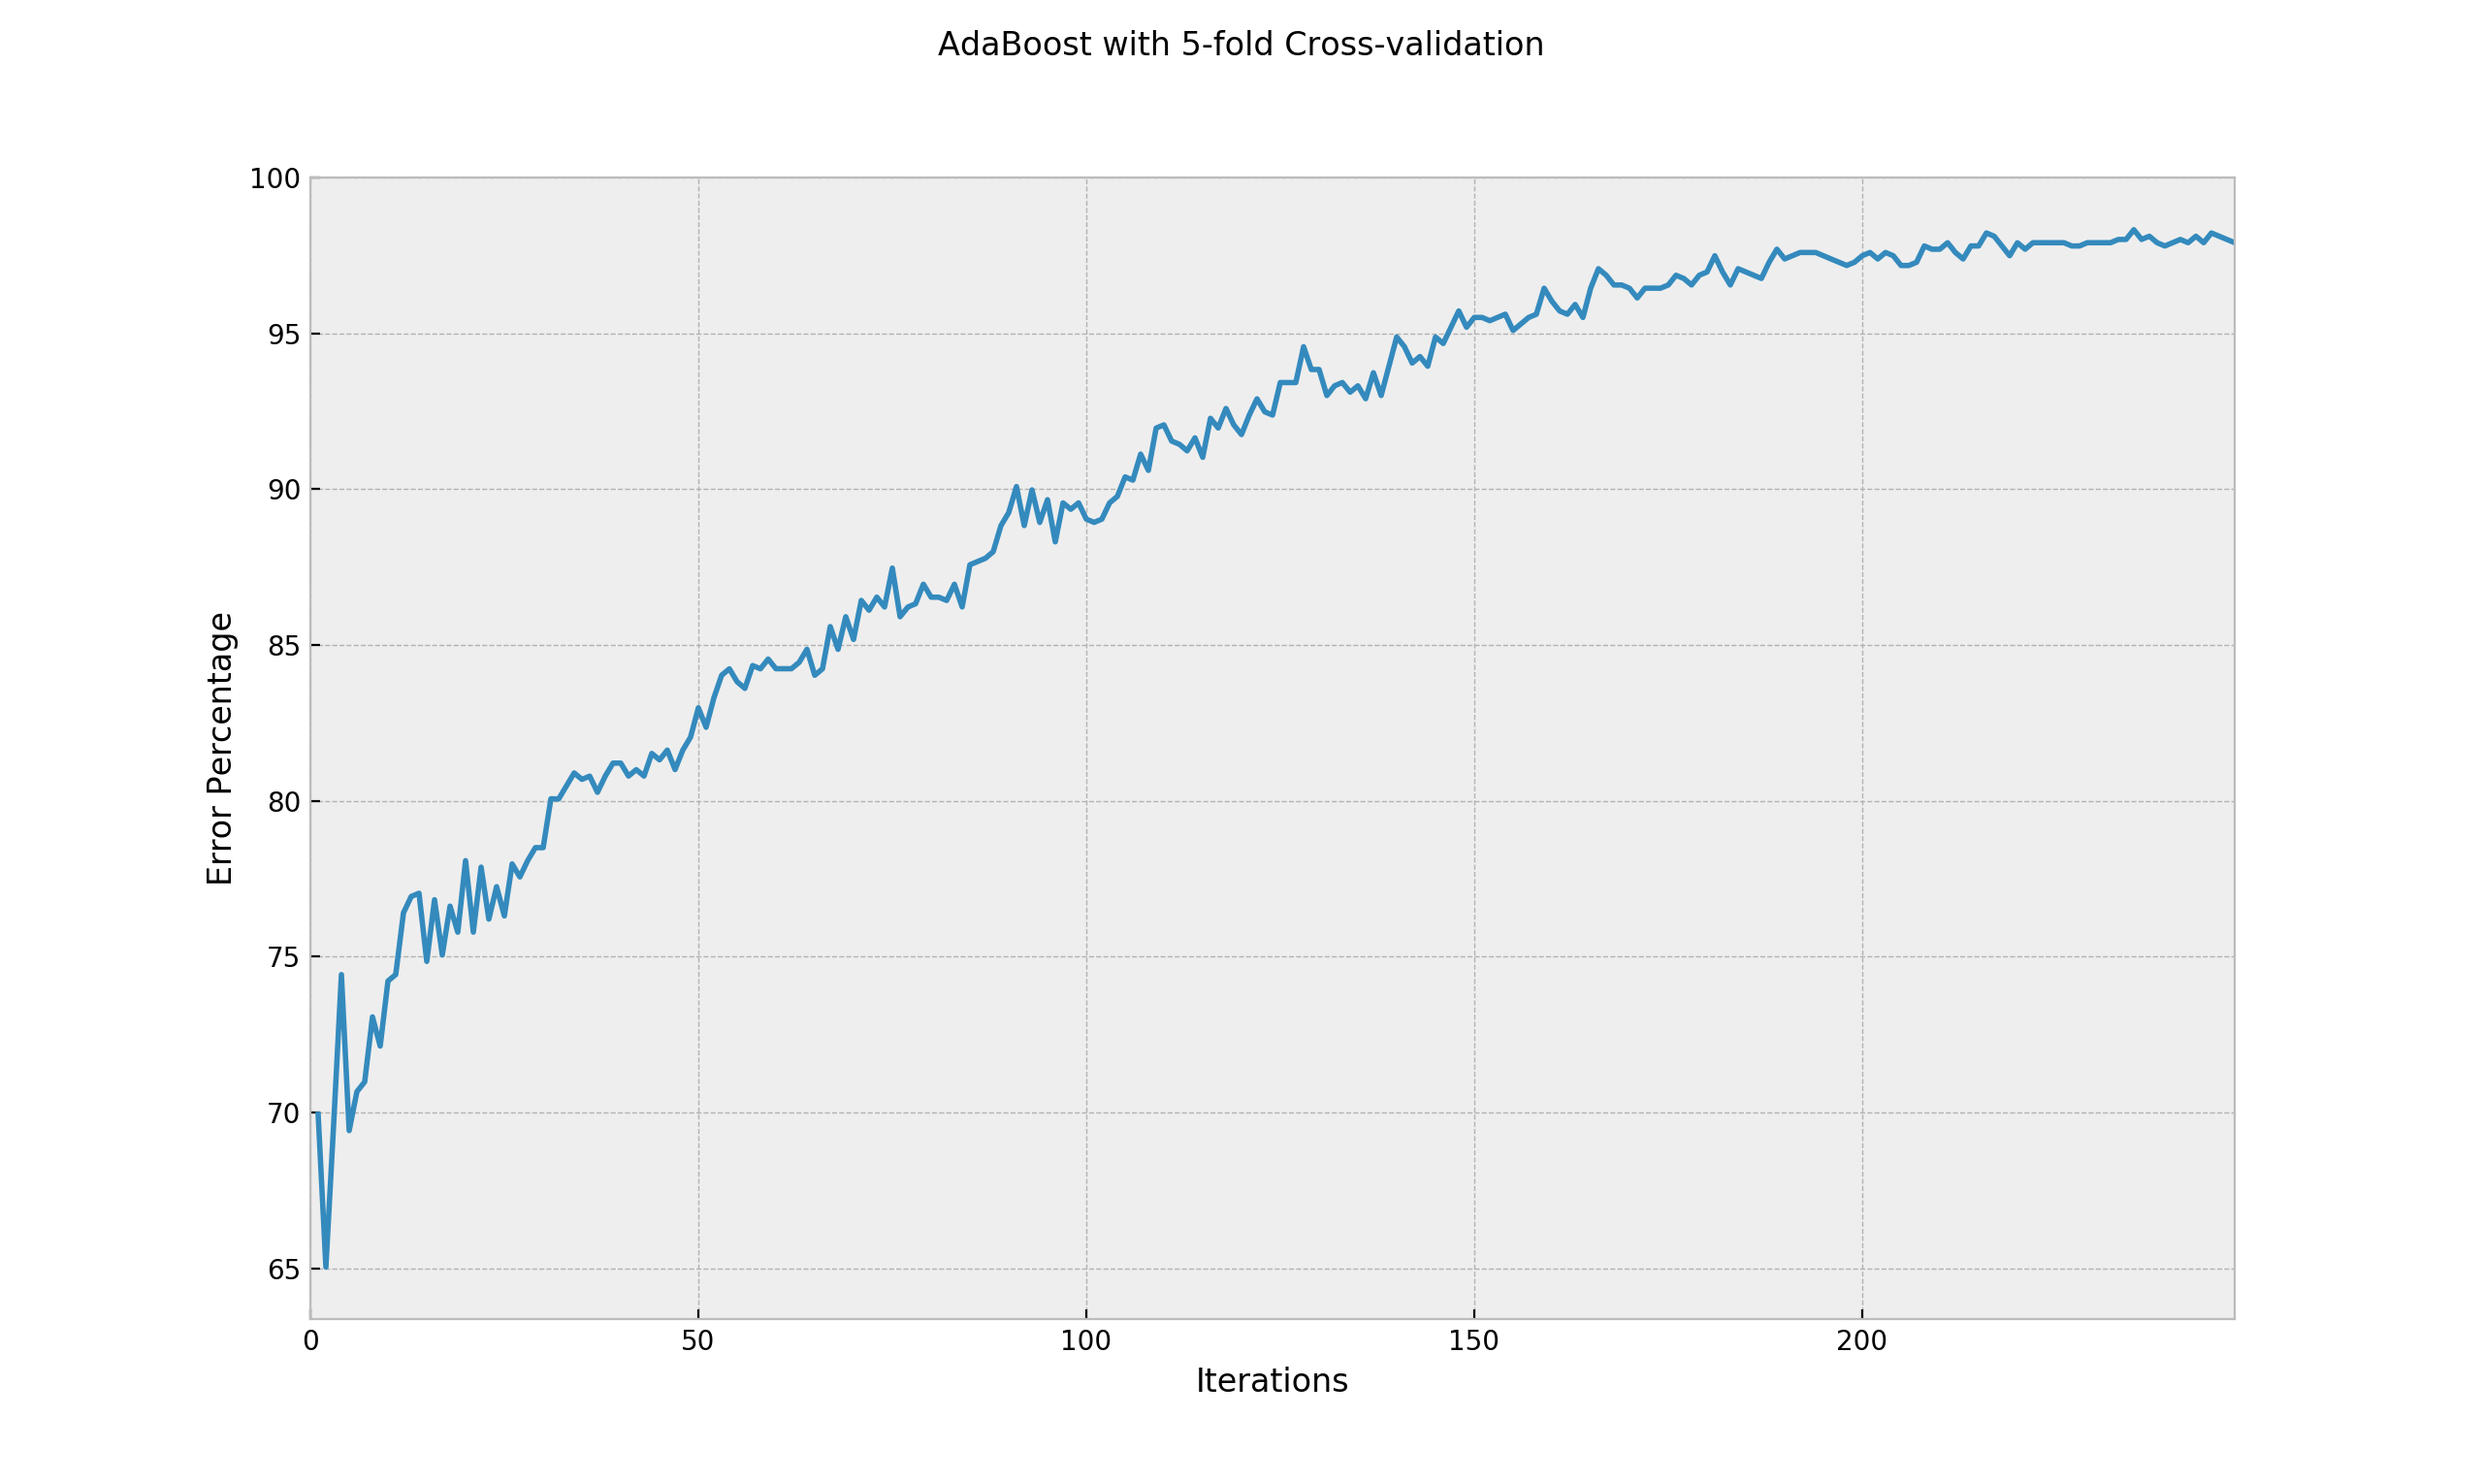
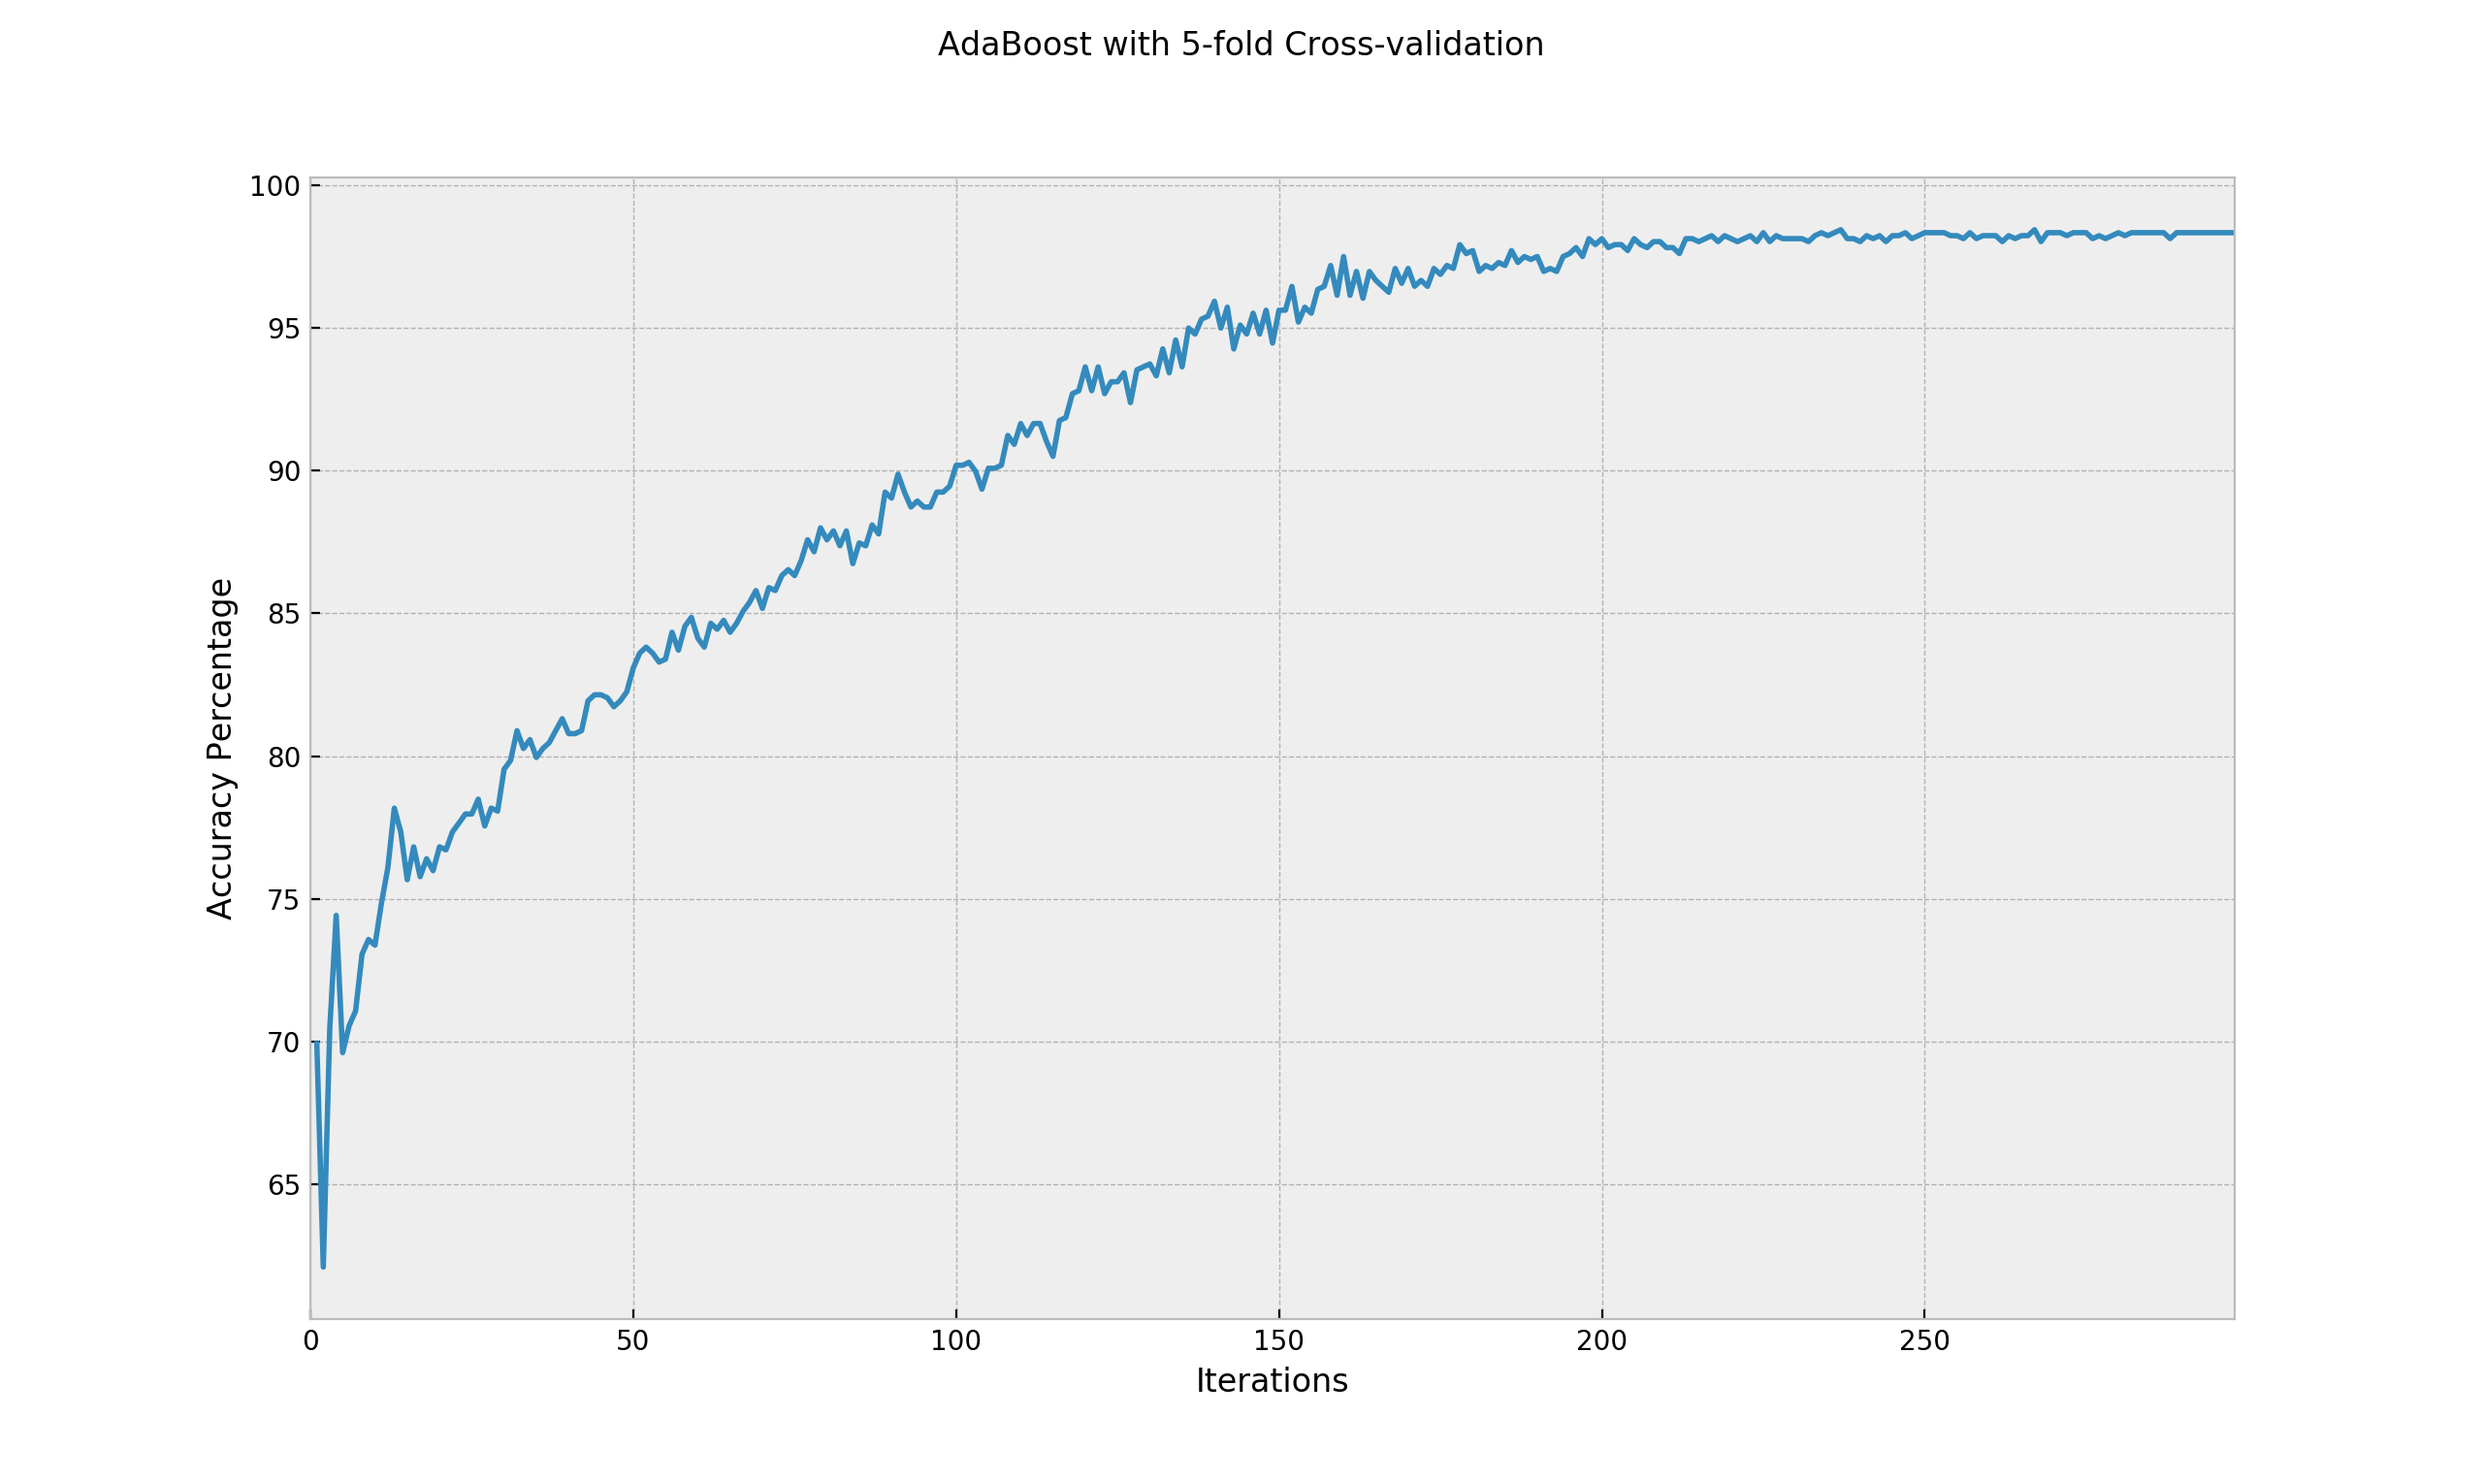
Minor changes to plots, boost and main
- Main now runs 300 iterations of boosting for each fold combination.
   I've found empirically that this is the best number for the error
   convergence.

 - Minor change to stump prediction. Now it predicts negative if sum of
   weights for negative output instances are >= sum of weights for
   positive output instances. Before it was the contrary.

 - Plot y label was wrong for some images. New plots with 300 iterations
   and change to stump prediction.

diff --git a/main.py b/main.py
@@ -24,13 +24,13 @@ def main():
     cv_accuracies = []
     cv_errors = []
     for i in range(k):
-        print("Round:", i, "\n")
+        print("Round", i + 1)
         testing_set = dh.separate_attributes(dataset[i])
         remaining_folds = np.concatenate(np.delete(dataset, i))
         training_set = dh.separate_attributes(remaining_folds)
 
         ada = ab.AdaBoost(training_set, testing_set)
-        results = ada.boost(500)
+        results = ada.boost(300)
 
         cv_accuracies.append(results[0])
         cv_errors.append(results[1])

diff --git a/adaboost.py b/adaboost.py
@@ -97,7 +97,7 @@ class AdaBoost:
 
             # Create rule based in most frequent output class per input value
             for key in ocurrences:
-                if ocurrences[key][0] >= ocurrences[key][1]:
+                if ocurrences[key][0] > ocurrences[key][1]:
                     stump[key] = 1  # Value predicts "positive" output
                 else:
                     stump[key] = -1  # Value predicts "negative" output

diff --git a/plot_results.py b/plot_results.py
@@ -12,7 +12,7 @@ data_frame["Accuracy"] = pd.read_csv("boosting_accuracy.csv", header=0,
 data_frame["Error"] = pd.read_csv("boosting_error.csv", header=0, index_col=0)
 
 ax.set_xlabel("Iterations")
-ax.set_ylabel("Error Percentage")
+ax.set_ylabel("Percentage")
 
 data_frame.plot(ax=ax)  # COMBINED
 #data_frame.plot(ax=ax, legend=False)  # ACCURACY ONLY
